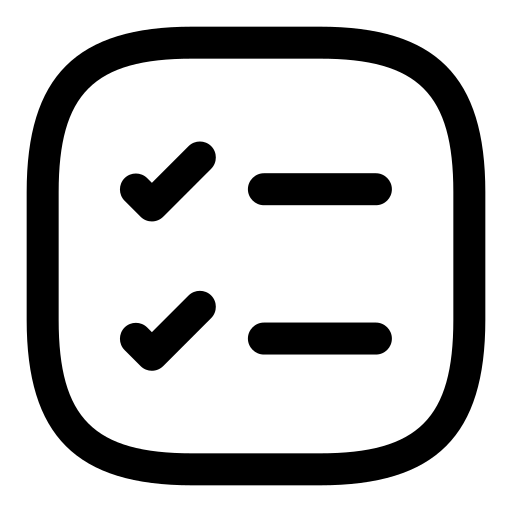
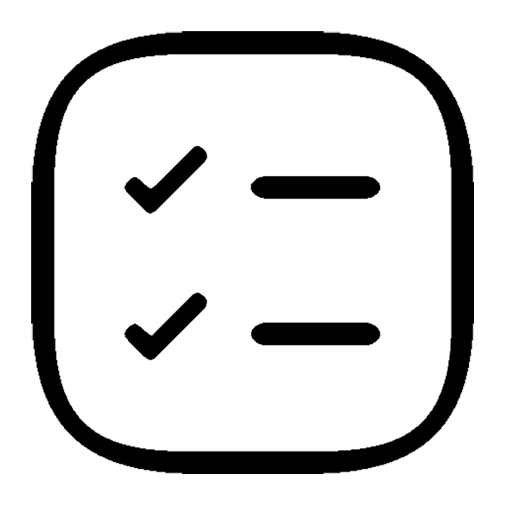
css footer & btn-favorite done

diff --git a/app/assets/stylesheets/pages/_home.scss b/app/assets/stylesheets/pages/_home.scss
@@ -21,6 +21,51 @@ $card-bg:        #ffffff;
   padding:16px;
 }
 
+.all {
+display: flex;
+}
+
+.card-time{
+  display: flex;
+  flex-direction: column;
+  align-items: flex-start;
+}
+
+.recipe-card { position: relative; } /* déjà présent mais nécessaire pour le positionnement */
+
+.btn-favorite2 {
+  position: absolute;
+  right: 14px;
+  bottom: 18px;
+  width: 30px;
+  height: 27px;
+  display: grid;
+  place-items: center;
+  text-decoration: none;
+  z-index: 2;
+
+  &:hover {
+    transform: translateY(-2px);
+    filter: drop-shadow(0 2px 1px rgba(0,0,0,.08));
+  }
+}
+.rounded-circle2 {
+  width: 35px;
+  height: 35px;
+  border-radius: 50%;
+  background: $accent-yellow;
+  box-shadow: 0 6px 14px rgba(0,0,0,0.10);
+  display: grid;
+  place-items: center;
+}
+
+.heart-icon2 {
+  width: 15px;
+  height: 15px;
+  display: block;
+}
+
+
 .hero {
   position: relative;
   width: 100%;
@@ -52,7 +97,7 @@ $card-bg:        #ffffff;
     position: absolute;
     top: 24px;
     left: 24px;
-    z-index: 2;             /* au-dessus de l’overlay */
+    z-index: 2;
     max-width: 80%;
     color: $text-light;
     text-align: left;
@@ -170,6 +215,7 @@ $card-bg:        #ffffff;
     color: $text-muted;
     margin-bottom: 4px;
     margin-top: 10px;
+    font-weight: 800;
   }
 
   .time {

diff --git a/app/assets/stylesheets/components/_footer.scss b/app/assets/stylesheets/components/_footer.scss
@@ -53,11 +53,11 @@
   position: absolute;
   left: 50%;
   top: 0;
-  transform: translate(-50%, -38%);  /* ajuste la sortie visuelle (−35% à −45% selon ton goût) */
+  transform: translate(-50%, -27%);  /* ajuste la sortie visuelle (−35% à −45% selon ton goût) */
   width: var(--fab-d);
   height: var(--fab-d);
   border-radius: 999px;
-  background: #bfbfbf;
+  background: $color-secondary;
   display: grid;
   place-items: center;
   z-index: 2;                        /* au-dessus de la barre */

diff --git a/app/assets/stylesheets/pages/_ingredient_list.scss b/app/assets/stylesheets/pages/_ingredient_list.scss
@@ -17,6 +17,7 @@ $border:         rgba(0,0,0,0.06);
   justify-content: center;
   align-items: flex-start;
   padding: 6px 12px 18px;
+  margin: 0;
 }
 
 /* Carte principale */
@@ -196,9 +197,10 @@ $border:         rgba(0,0,0,0.06);
 .shopping-total {
   display: flex;
   justify-content: flex-end;
-  font-weight: 800;
+  font-weight: 400;
   letter-spacing: .2px;
   flex: 0 0 auto;
+  font-family: $font-secondary;
   margin-top: 5px;
 
   .label {
